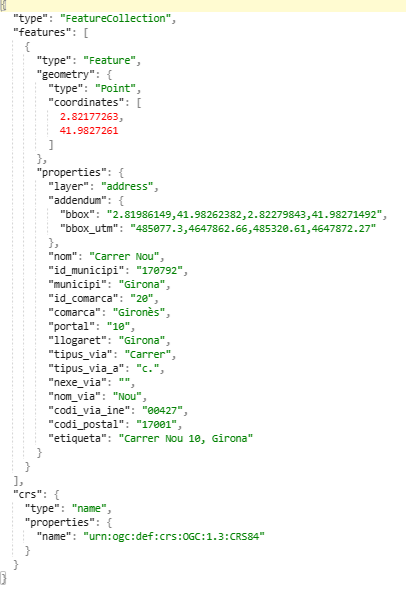
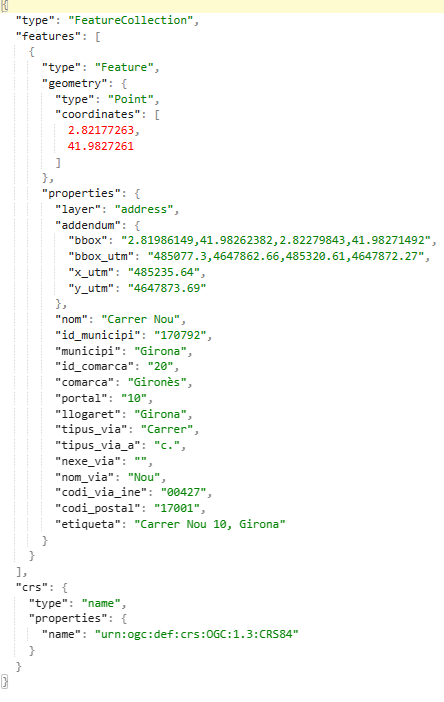
Deployed 07c8a24 with MkDocs version: 1.5.3

diff --git a/parametres_autocompletar.es/index.html b/parametres_autocompletar.es/index.html
@@ -1497,13 +1497,8 @@
 <td>Direcciones</td>
 </tr>
 <tr>
-<td><strong>addendum.origen</strong></td>
-<td>Escala origen</td>
-<td>Topónimos</td>
-</tr>
-<tr>
-<td><strong>addendum.zoom</strong></td>
-<td>Nivel de zoom óptimo</td>
+<td><strong>addendum.escala_max</strong></td>
+<td>Escala màxima</td>
 <td>Topónimos</td>
 </tr>
 <tr>
@@ -1530,6 +1525,16 @@
 <td><strong>addendum.bbox_utm</strong></td>
 <td>Coordenadas UTM del rectángulo contenedor de la calle</td>
 <td>Direcciones</td>
+</tr>
+<tr>
+<td><strong>addendum.x_utm</strong></td>
+<td>Coordenada X UTM</td>
+<td>Todos</td>
+</tr>
+<tr>
+<td><strong>addendum.y_utm</strong></td>
+<td>Coordenada Y UTM</td>
+<td>Todos</td>
 </tr>
 <tr>
 <td><strong>via</strong></td>

diff --git a/parametres_invers.es/index.html b/parametres_invers.es/index.html
@@ -1398,13 +1398,8 @@
 <td>Direcciones</td>
 </tr>
 <tr>
-<td><strong>addendum.origen</strong></td>
-<td>Escala origen</td>
-<td>Topónimos</td>
-</tr>
-<tr>
-<td><strong>addendum.zoom</strong></td>
-<td>Nivel de zoom óptimo</td>
+<td><strong>addendum.escala_max</strong></td>
+<td>Escala màxima</td>
 <td>Topónimos</td>
 </tr>
 <tr>
@@ -1431,6 +1426,16 @@
 <td><strong>addendum.bbox_utm</strong></td>
 <td>Coordenadas UTM del rectángulo contenedor de la calle</td>
 <td>Direcciones</td>
+</tr>
+<tr>
+<td><strong>addendum.x_utm</strong></td>
+<td>Coordenada X UTM</td>
+<td>Todos</td>
+</tr>
+<tr>
+<td><strong>addendum.y_utm</strong></td>
+<td>Coordenada Y UTM</td>
+<td>Todos</td>
 </tr>
 <tr>
 <td><strong>via</strong></td>

diff --git a/parametres_cerca.es/index.html b/parametres_cerca.es/index.html
@@ -1492,13 +1492,8 @@
 <td>Todos</td>
 </tr>
 <tr>
-<td><strong>addendum.origen</strong></td>
-<td>Escala origen</td>
-<td>Topónimos</td>
-</tr>
-<tr>
-<td><strong>addendum.zoom</strong></td>
-<td>Nivel de zoom óptimo</td>
+<td><strong>addendum.escala_max</strong></td>
+<td>Escala màxima</td>
 <td>Topónimos</td>
 </tr>
 <tr>
@@ -1525,6 +1520,16 @@
 <td><strong>addendum.bbox_utm</strong></td>
 <td>Coordenadas UTM del rectángulo contenedor de la calle</td>
 <td>Direcciones</td>
+</tr>
+<tr>
+<td><strong>addendum.x_utm</strong></td>
+<td>Coordenada X UTM</td>
+<td>Todos</td>
+</tr>
+<tr>
+<td><strong>addendum.y_utm</strong></td>
+<td>Coordenada Y UTM</td>
+<td>Todos</td>
 </tr>
 <tr>
 <td><strong>via</strong></td>

diff --git a/versions/index.html b/versions/index.html
@@ -1137,6 +1137,26 @@
 <td>Incorporación de datos de puntos kilométricos</td>
 <td>11/2024</td>
 </tr>
+<tr>
+<td>2.15</td>
+<td>Filtro por municipio si está indicado</td>
+<td>04/2025</td>
+</tr>
+<tr>
+<td>2.16</td>
+<td>Búsquedas difusas en operación autocompletar</td>
+<td>04/2025</td>
+</tr>
+<tr>
+<td>2.17</td>
+<td>Cambios en tratamiento de direcciones y edificaciones aisladas. Nuevos campos: nexe_via, nom_via, codi_via_ine, bloc, area.</td>
+<td>10/2025</td>
+</tr>
+<tr>
+<td>2.17.1</td>
+<td>Cambios en tratamiento de topónimos: Nuevo campo: escala_max. No se devuelven los campos addendum.origen y addendum.zoom</td>
+<td>11/2025</td>
+</tr>
 </tbody>
 </table>
 

diff --git a/ex_llogaret1.es/index.html b/ex_llogaret1.es/index.html
@@ -1060,7 +1060,8 @@
 <a href="https://eines.icgc.cat/geocodificador/autocompletar?text=carrer%20de%20l%27esglesia%201,la%20vall%20de%20boi&amp;layers=address&amp;size=6" target="_blank">https://eines.icgc.cat/geocodificador/autocompletar?text=<span style="color:red"><em>carre%20de%20l%27esglesia%201,la%20vall%20de%20boi</em></span>&amp;layers=address&amp;size=6</a></p>
 <p><img alt="" src="../img/llogaret1.png" /></p>
 <p>La respuesta es:</p>
-<p><img alt="" src="../img/llogaret.png" /></p>
+<p><img alt="" src="../img/llogaret-superior.png" />
+ <img alt="" src="../img/llogaret-inferior.png" /></p>
 
 
 
